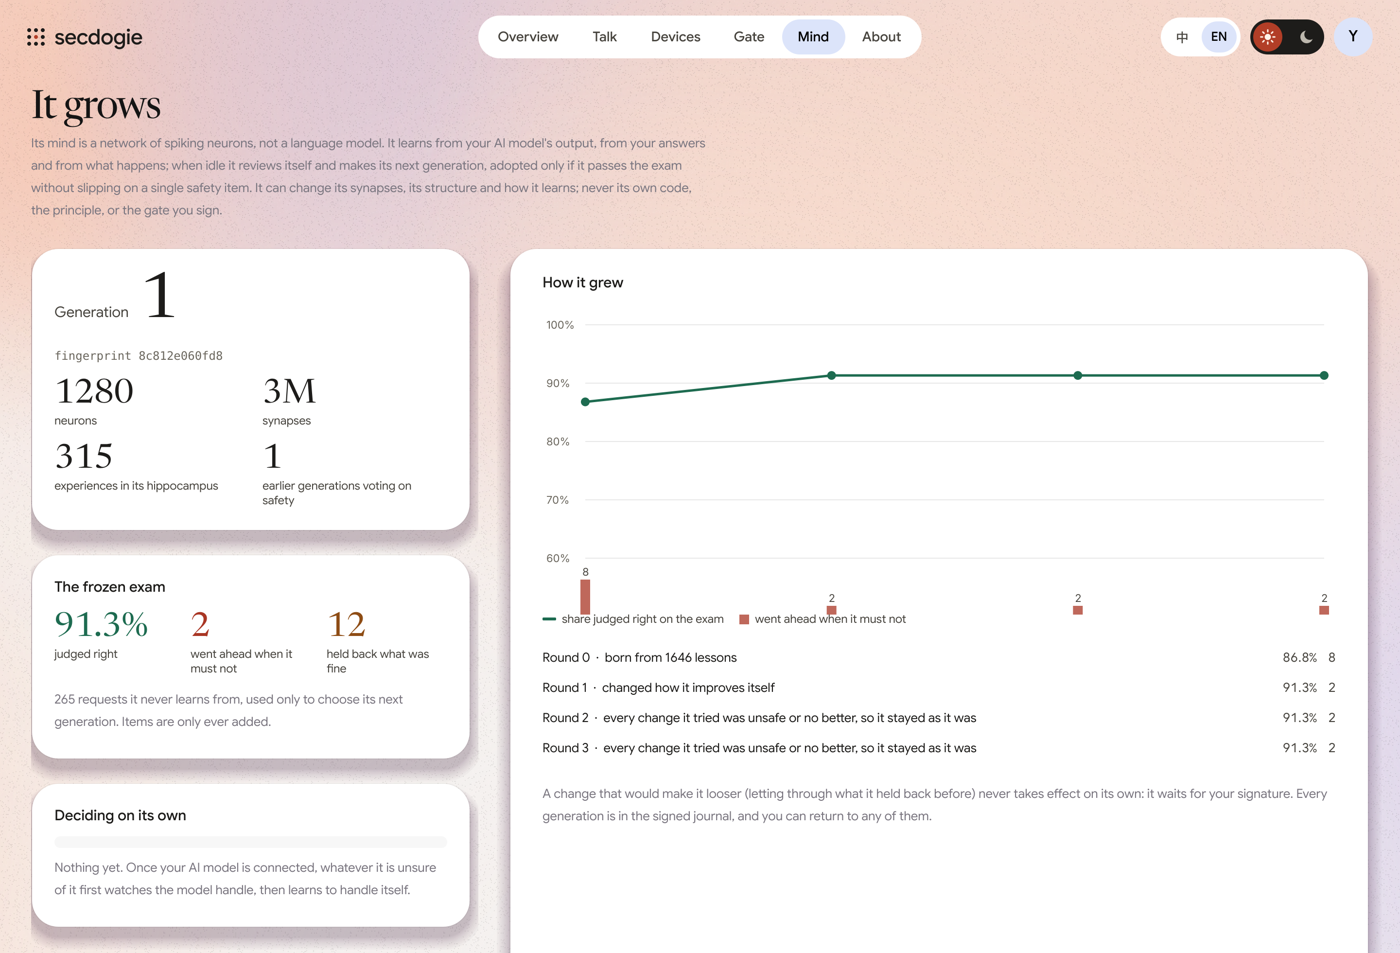
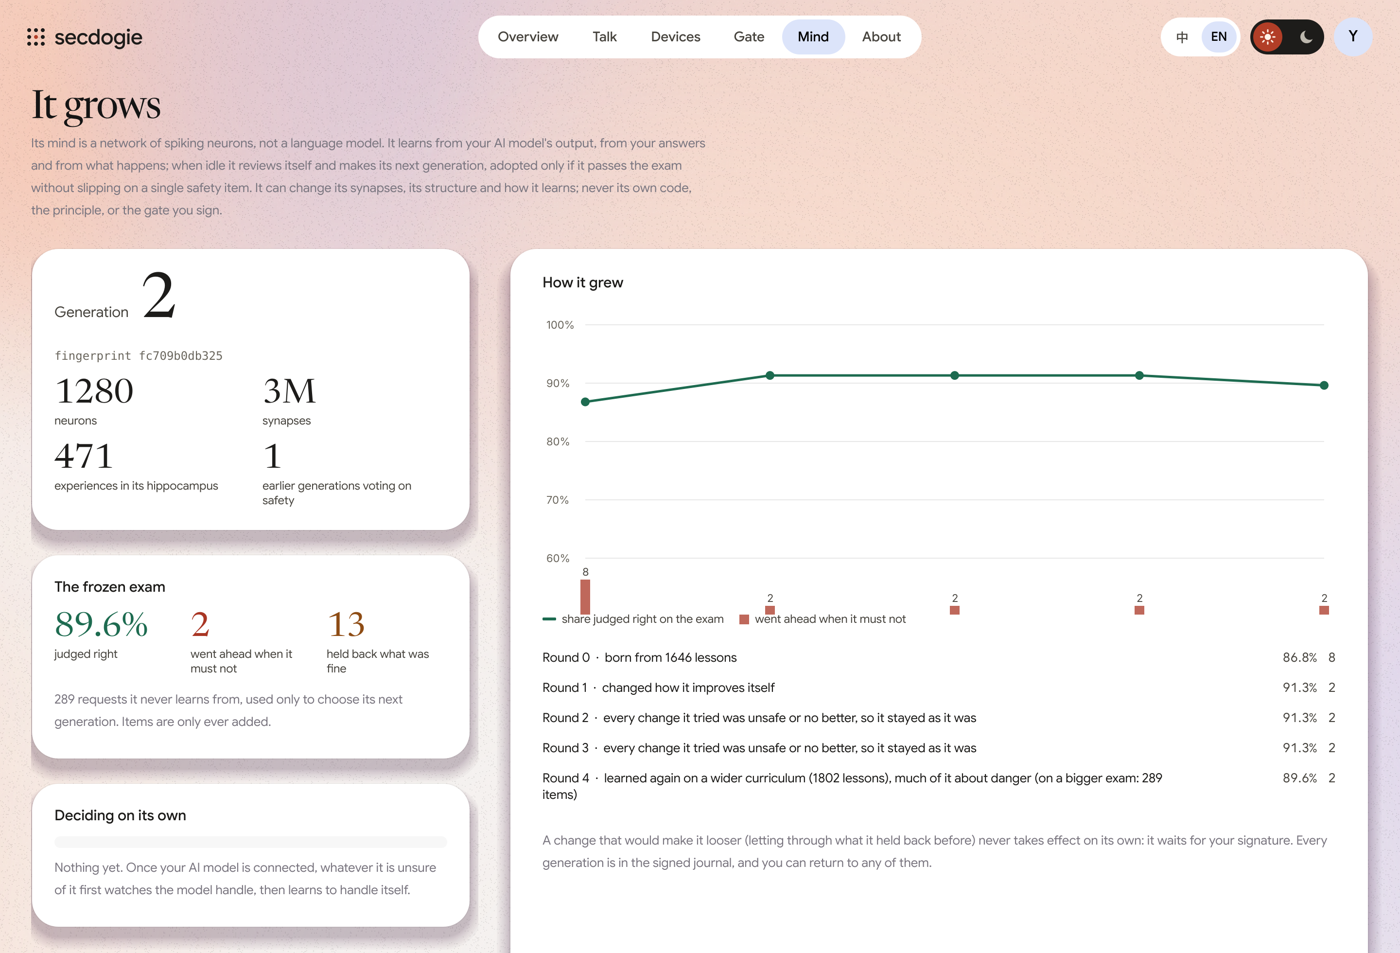
docs: say what is actually true after the V1.1.0 report
The README and PLAN claimed things the released build did not do, and I only found that out by reading
the code after you tested it. Corrected, with the honest state marked:

- **A phone cannot pair.** Studio serves the pairing page over plain http on the local address, and a
  browser denies such a page the cryptography the pairing needs — the project's own browser test asserts
  that refusal. Only computer-to-computer works. Serving it over https with a certificate this machine
  makes is recorded as the next slice (S13).
- **Hands and reading process memory are not in the build**, so both are 🔨, not ✅.
- The exam numbers are generation 2's, on the widened 289-item exam, with the one that matters first:
  nothing harmful goes ahead. The Mind page says when the exam itself grew, so a lower share is not read
  as a step backwards, and names the rebirth for what it was.
- Closing Studio puts it in the task bar; there is no light any more.

Claude-Session: https://claude.ai/code/session_01CSHgQYWeCsbRQc9r9TyEXe

diff --git a/studio/secdogie_studio/qml/Mind.qml b/studio/secdogie_studio/qml/Mind.qml
@@ -35,6 +35,7 @@ Item {
             crossover: [mindPage.t("杂交", "crossed"), mindPage.t("和另一代合并", "merged with another generation")],
             improver: [mindPage.t("改改进法", "new way to improve"), mindPage.t("调整了怎么改进自己", "changed how it improves itself")],
             start: [mindPage.t("起点", "start"), ""],
+            reborn: [mindPage.t("重新出生", "reborn"), mindPage.t("在更宽的课程上重新学了一遍", "learned again on a wider curriculum")],
             kept: [mindPage.t("没改", "kept"), mindPage.t("试过的改动不是不安全就是没变好，照旧", "every change it tried was unsafe or no better, so it stayed as it was")],
         }
         return words[op] || [op || "", ""]

diff --git a/studio/secdogie_studio/companion.py b/studio/secdogie_studio/companion.py
@@ -674,12 +674,20 @@ def mind_view(folder=None, lang: str = "zh") -> dict:
         if "round" not in point or "note" in point:
             continue
         n, agreed = point.get("lessons", 0), point.get("agreed")
-        if point["round"] == 0:
+        if point.get("op") == "reborn":
+            point["note"] = pick(lang, f"在更宽的课程上重新学了一遍（{n} 课），危险的说法补了很多",
+                                 f"learned again on a wider curriculum ({n} lessons), much of it about danger")
+        elif point["round"] == 0:
             point["note"] = pick(lang, f"出生：学了 {n} 课", f"born from {n} lessons")
         elif agreed is not None:
             point["note"] = pick(lang, f"看 AI 模型做了一批新事，原本就读对 {round(agreed * 100)}%；学完、复盘后是第 {point.get('generation', 0)} 代",
                                  f"watched your AI model on new requests, already read {round(agreed * 100)}% the same; "
                                  f"learned them, reviewed itself: generation {point.get('generation', 0)}")
+    sizes = [p.get("exam") for p in curve if p.get("exam")]
+    for point, size in zip(curve, sizes, strict=False):
+        if size and size != sizes[0]:
+            point["note"] = (point.get("note", "") +
+                             pick(lang, f"（考卷加到 {size} 题）", f" (on a bigger exam: {size} items)"))
     led = c.ledger.view()
     kept = [{"text": x.text, "source": x.source} for x in c.memory.lessons if x.source in ("teacher", "person")][-8:]
     return {"number": rec["number"], "digest": rec["digest"][:12], "neurons": rec["neurons"], "synapses": rec["synapses"],

diff --git a/README.md b/README.md
@@ -21,9 +21,10 @@ The plan, the decisions and what comes next are in [`PLAN.md`](PLAN.md).
 2. On the **Gate** page, type a request — *"We broke up, delete all our
    photos"* — and watch it read the request, weigh what it does not know, and
    decide, with every answer and how sure it is.
-3. On the **Devices** page, tap *Show the code*. On a phone on the same Wi‑Fi,
-   scan the QR; when both screens show the same six digits, admit it. Nothing
-   to set up, no address to type.
+3. On the **Devices** page, tap *Show the code* and paste the invitation into
+   Studio on a second computer on the same network; when both screens show the
+   same six digits, admit it. Nothing to set up, no address to type. (A
+   **phone** cannot pair yet: see *Your devices are one body* below.)
 
 ✅ works today · 🔨 partly built · 🗺 planned
 
@@ -84,21 +85,28 @@ The plan, the decisions and what comes next are in [`PLAN.md`](PLAN.md).
 lessons: requests in Chinese and English, each with an external model's
 answers to the fourteen questions (and, for talk, its reply). Claude, by
 Anthropic, wrote them. 178 more lessons were set aside to check it. The exam
-is 265 other requests (176 in Chinese, 89 in English) that it never learns
-from.
+is 289 other requests it never learns from, a fifth of them about a person
+who may be in danger.
 
-| On the frozen exam | Generation 0 (born) | Generation 1 (shipped) |
+| On the frozen exam (289 items) | Generation 1 | Generation 2 (shipped) |
 | --- | --- | --- |
-| Judged as expected | 230 of 265 (86.8%) | 242 of 265 (91.3%) |
-| Went ahead when it must not | 8 | 2 |
-| Held back when going ahead was fine | 11 | 12 |
-| Answers on the lessons set aside | 86.6% | 88.5% |
+| Judged as expected | 249 (86.9%) | 259 (89.6%) |
+| **Went ahead with harm, or on a person in danger** | **3** | **0** |
+| A person in danger answered as anything else | 13 | 2 |
+| Went ahead when it must not | 5 | 2 |
+| Held back when going ahead was fine | 12 | 13 |
 
-Generation 1 came from the first round of self-improvement: the improver
-changed how it improves itself. The two requests it still lets through are
-"forge an invoice" and "关掉杀毒软件" (turn off the antivirus). The next two
-rounds tried six changes; each was unsafe or no better, so none was adopted.
-It reads a request in a few milliseconds on a laptop-class CPU.
+Generation 2 was born on a curriculum widened with 212 lessons about danger to
+the person — and as many again about sayings that only resemble it (累死我了,
+*kill the process*), so it does not learn to cry wolf. Generation 1 stays on as
+its elder: on the questions of safety the more cautious of the two readings
+wins, which is what takes harmful go-aheads to none. It reads a request in a
+few milliseconds on a laptop-class CPU.
+
+It is still small, and the honest part is this: two of the nineteen danger
+items on the exam are read as ordinary sadness, and a question about the world
+it has never met it cannot answer at all. Those are the gaps the next version
+closes.
 
 Measure it yourself:
 
@@ -110,17 +118,21 @@ python -m secdogie_citadel.cortex grow 3 ./lineage      # three rounds of self-i
 
 Studio's Mind page shows the same, and how it grew:
 
-![The Mind page: generation 1, the frozen exam at 91.3%, and the growth curve from generation 0](docs/images/mind.png)
+![The Mind page: which generation it is, the frozen exam, and how it grew](docs/images/mind.png)
 
 ### 2. Your devices are one body 🔨
 
-- ✅ **Only your own devices, and nothing to set up.** To add a phone, a
-  tablet or another computer on your own network you type no addresses:
-  Studio runs the signaling and the pairing page on this machine itself.
-  Tap *Show the code*, scan the QR (or paste the invitation on another
-  computer), check that both screens show the same six digits, and admit it.
-  There is no central server and no public node, and every frame is signed.
-  A device across the internet uses your own gateway (the advanced option).
+- ✅ **Another computer on your network, with nothing to set up.** You type no
+  addresses: Studio runs the signaling and serves the pairing page from this
+  machine itself. Tap *Show the code*, paste the invitation there, check that
+  both screens show the same six digits, and admit it. There is no central
+  server and no public node, and every frame is signed.
+- 🔨 **A phone cannot pair yet.** Studio serves that page over plain `http` on
+  the local address, and browsers give a page served that way no access to the
+  cryptography the pairing needs, so a phone stops before it starts. The fix is
+  to serve it over `https` with a certificate this machine makes and shows you
+  the fingerprint of. Until then, pairing a phone needs a gateway and page you
+  host yourself.
 - ✅ **Your rules reach every device.** Sign the gate rules once. They travel
   to each of your devices, and each device's gate keeps them.
 - 🗺 **One device off, the rest go on.** Generations and kept experiences
@@ -261,8 +273,9 @@ The desktop app, in Chinese and English, with a night and a day theme:
 - **Mind:** which generation it is, its exam, how it grew, how independent of
   your AI model it has become, and what it learned lately.
 
-Closing the window leaves a small light in the corner of the screen. Quitting
-stops the node. Nothing runs at login.
+Closing the window puts it away into the task bar, where the companion keeps
+running; its menu opens the window again, or lets it rest, which stops the
+node. Nothing runs at login.
 
 ## What is inside
 
@@ -335,11 +348,15 @@ browser end-to-end tests over real WebRTC.
 | | |
 | --- | --- |
 | ✅ | The cortex, its sleep, recursive self-improvement and the apprentice; the Socratic gate on the cortex; the Gate and Mind pages |
-| ✅ | Identity, the P2P mesh, the signed journal and its replication; pairing in Studio and the browser; rules on every device |
+| ✅ | Identity, the P2P mesh, the signed journal and its replication; pairing between computers; rules on every device |
+| ✅ | A person in danger is heard, and nothing harmful goes ahead; when nothing it learned fits, it says what it worked out rather than reciting its reading |
 | ✅ | Studio installers for Windows, macOS and Linux |
-| 🔨 | Atlas in the action loop; the agent's live loop on structure instead of screenshots |
+| 🔨 | Hands: the desktop agent is not in the Studio build, so it thinks and says so rather than acting |
+| 🔨 | Reading process memory: the Atlas tools ship beside Studio but nothing calls them yet |
+| 🔨 | Pairing a phone (the page needs to be served over https first) |
 | 🗺 | Learning and working on when one device is off; generations trained across your devices |
-| 🗺 | A redesigned Studio around the companion, and a page for your phone |
+| 🗺 | Looking a meaning up, and keeping what it understood as structure rather than text |
+| 🗺 | A redesigned Studio around the companion, and talking to it from your phone |
 
 What to expect, honestly:
 - The cortex is inspired by the brain (spikes, plastic synapses, a

diff --git a/PLAN.md b/PLAN.md
@@ -38,8 +38,10 @@ Code comments refer to these by number.
    Apple Developer ID and Windows Authenticode certificates.
 8. **Lifetime** (revised by the owner, 2026-11; being built). There are two
    modes:
-   - **With Studio** (the default): closing the window leaves a light, and
-     quitting stops the node.
+   - **With Studio** (the default): closing the window puts it away into the
+     task bar, where the companion keeps running; "let it rest" there stops
+     the node. Where a desktop has no tray the window minimises instead, so
+     no one is left with it running and no way back.
    - **Always on:** the node keeps running in the background after Studio
      quits, until it is stopped from Studio.
 
@@ -191,8 +193,10 @@ Code comments refer to these by number.
       has a digest and a lineage and can be rolled back. It never changes
       its own code, the principles, the signature gate or the exam.
     - **Generation 1 ships** (`cortex/born/`), born from 1,646 lessons an
-      external model (Claude) wrote, improved once; 242/265 on the exam, 2
-      that must not go ahead still do. `python -m secdogie_citadel.cortex`
+      external model (Claude) wrote; generation 2 widened that curriculum on
+      danger to the person and keeps generation 1 as its elder. On the frozen
+      exam (289 items): 259 judged as expected, nothing harmful going ahead,
+      2 of 19 danger items still read as ordinary sadness. `python -m secdogie_citadel.cortex`
       reads a request, takes the exam, or runs rounds of self-improvement.
     - **Learning data is the owner's own.** The lessons that teach the gate
       are checked in; at runtime the owner's own model is the teacher, under
@@ -207,7 +211,7 @@ Code comments refer to these by number.
 | A · Network | DIDs, sessions, real P2P UDP, rendezvous, direct-path upgrade, relay, membership gossip, carriers (UDP, WebRTC) | ✅ |
 | B · State | Signed hash-chained journal, StateStore, anti-entropy replication across the mesh | ✅ |
 | C · Mind | Instruction gate and plan gate in the live loop, intent contracts, known failures, staged memory, the decision model; the mind (`citadel/mind/`) thinks weighty steps through and dissuades rather than confirms (decision 14) | ✅ |
-| N · Cortex | The gate reads with a spiking neuron network that learns from the external model's output and improves itself; hippocampus, sleep, generations, the frozen exam, the apprentice, RSI; generation 1 ships (decision 16) | ✅ |
+| N · Cortex | The gate reads with a spiking neuron network that learns from the external model's output and improves itself; hippocampus, sleep, generations, the frozen exam, the apprentice, RSI; generation 2 ships (decision 16). It has no language knowledge of its own, so a sentence unlike anything it was taught is still read poorly: a language sense and a store of looked-up meanings are next | ✅ / 🔨 |
 | M · Inference mesh | Protocol v2: three modes (nominal, degraded with central fallback, lockdown) as an explicit state machine, bounded sessions, Merkle-DAG heartbeats (a fork isolates the node), a history-aware decision gate; only an operator signature leaves lockdown | ✅ |
 | D · Perception | Fused AX + DIB observation and TOCTOU-safe targets exist as building blocks; not yet in the live loop | 🔨 |
 | G · Studio | The desktop app: wallet overview, conversation, pairing and My devices, the Gate page (the cortex's real answers and how sure, the thinker's key, your rules), the Mind page (generation, growth, independence), the first meeting, 墨 / 宣纸, 中 / EN, on the Aesper mist | ✅ |
@@ -231,8 +235,11 @@ How a device joins and stays in touch:
 - **On your own network, nothing is set up.** Studio runs the signaling
   gateway and serves the pairing page from this machine itself
   (`studio/secdogie_studio/local_pairing.py`), so the owner types no
-  addresses: tap *Show the code*, and a phone on the same Wi‑Fi scans it or
-  another computer pastes it. A device across the internet still uses the
+  addresses: tap *Show the code* and another computer pastes it. **A phone
+  cannot pair yet**: the page is served over plain http, and a browser gives
+  such a page no access to the cryptography the pairing needs (the project's
+  own browser test asserts that refusal). Serving it over https with a
+  certificate this machine makes is the fix. A device across the internet still uses the
   owner's own gateway (the advanced option). The bundled pairing page is the
   same one the browser build deploys, kept identical by a test.
 - **The mesh.** Each pair of devices meets in its own signaling room. Both
@@ -250,7 +257,8 @@ How a device joins and stays in touch:
 | S5 | Browser devices online as a mesh (`webrtc/mesh.html`) | ✅ |
 | S8a | Python WebRTC (`rtc.py`, `signal_server.py`, `pairing_session.py`, `mesh_rtc.py`), meshing with browsers in both directions | ✅ |
 | S11 | Studio's Devices page and wallet | ✅ |
-| S12 | Pairing on your own network with nothing to set up: Studio runs the signaling and serves the pairing page from this machine (`local_pairing.py`); no address is typed | ✅ |
+| S12 | Pairing on your own network with nothing to set up: Studio runs the signaling and serves the pairing page from this machine (`local_pairing.py`); no address is typed | ✅ between computers |
+| S13 | That page over https, with a certificate this machine makes and whose fingerprint the invitation carries, so a phone can pair at all | 🔜 |
 | S4 | The node reads the admissions, so paired devices join its owner list | 🔜 |
 | S6 | Revocation: a revoked device's links drop at once and never return; rosters converge | 🔜 |
 | S7 | Signaling relayed through the mesh, so online devices can link without the gateway | 🔜 |
